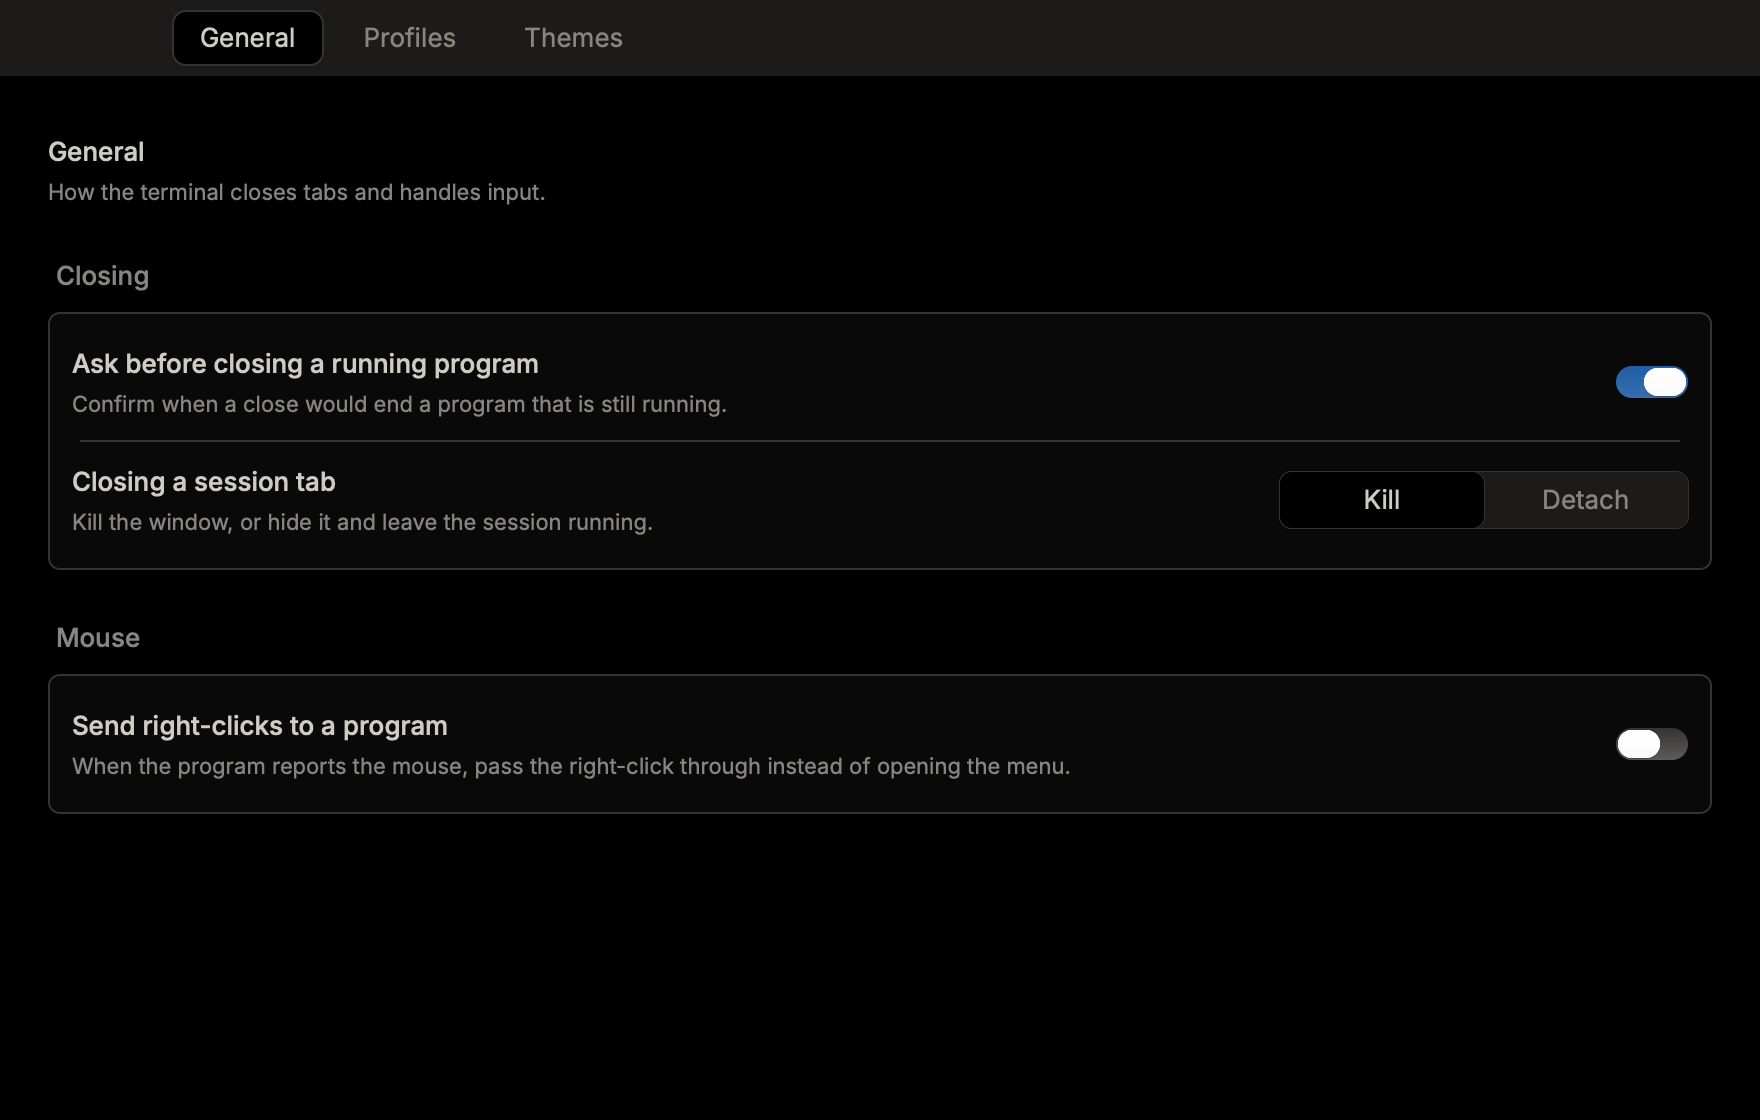
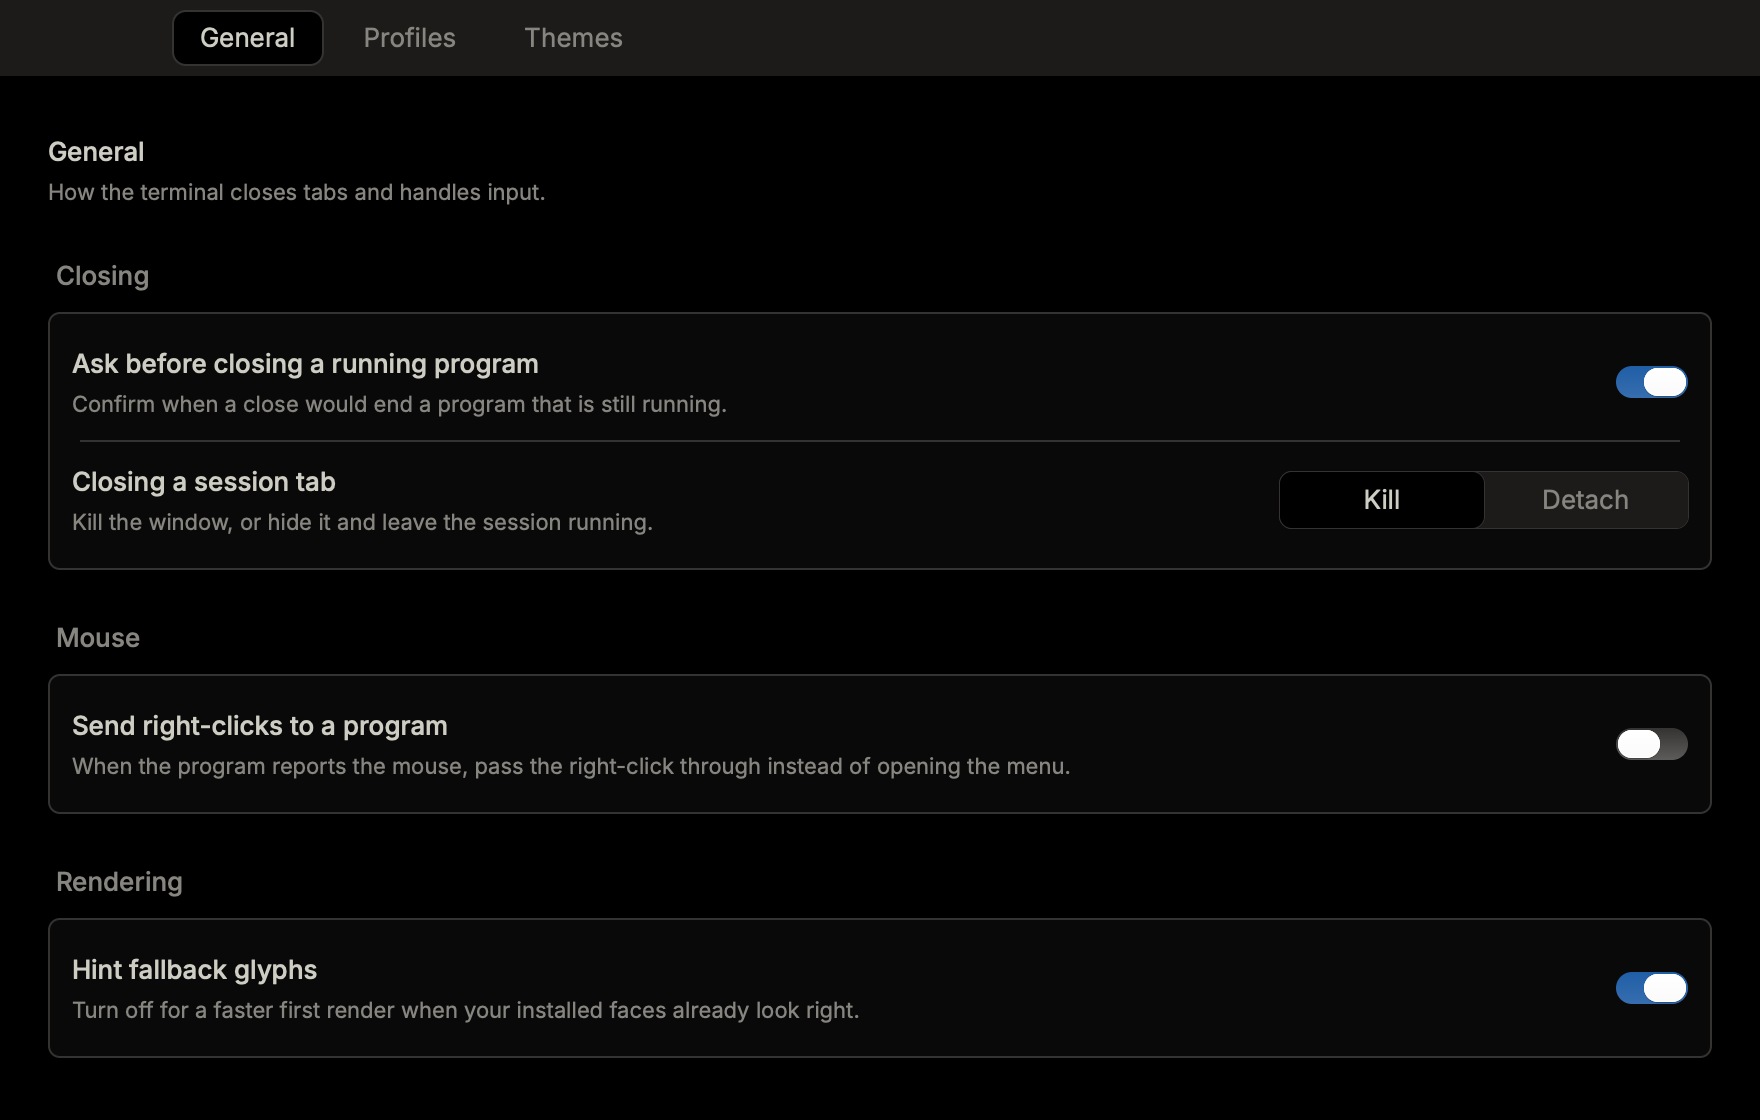
refactor(grid): skip glyph instances for control cells and spaces
Align with uterm's approach: rio-vt stores tab stops as literal '\t' cells,
so dropping glyph emission for control chars and spaces keeps them invisible
regardless of the font. Underlines still draw. General captures regenerate
for the new hint_fallback switch.

Assisted-by: AGENT:Hy4 flash Free

Changed region(s): [[0.0312, 0.8438, 0.4688, 0.9062], [0.9062, 0.8438, 0.9688, 0.9062], [0.0312, 0.7812, 0.125, 0.8125]]

diff --git a/term-grid/src/renderer.rs b/term-grid/src/renderer.rs
@@ -400,9 +400,14 @@ fn push_glyph(
     // A wide glyph's bitmap already fills both cells. The spacer cell has width 0.
     let cells = if sample.width >= 2 { 2 } else { 1 };
     let underline = sample.underline.then(|| atlas.underline(cells)).flatten();
-    let glyph = match &sample.cluster {
-        Some(cluster) => atlas.ensure_str(cluster, cells),
-        None => atlas.ensure(sample.ch, cells),
+    // Control cells (rio-vt stores tab stops as '\t') and spaces have no ink.
+    let glyph = if sample.ch.is_control() || sample.ch == ' ' {
+        None
+    } else {
+        match &sample.cluster {
+            Some(cluster) => atlas.ensure_str(cluster, cells),
+            None => atlas.ensure(sample.ch, cells),
+        }
     };
     for rect in [glyph, underline].into_iter().flatten() {
         text.push(CellText {
@@ -702,6 +707,30 @@ fn color_target(format: wgpu::TextureFormat) -> wgpu::ColorTargetState {
 
 #[cfg(test)]
 mod tests {
+    use super::*;
+    use crate::cell::CellSample;
+    use term_atlas::Atlas;
+
+    #[test]
+    fn control_and_space_cells_emit_no_glyph() {
+        let mut atlas = Atlas::with_cell(18, 34);
+        let mut text = Vec::new();
+        let sample = |ch, underline| CellSample {
+            ch,
+            cluster: None,
+            width: 1,
+            fg: [255, 255, 255, 255],
+            bg: [0, 0, 0, 0],
+            underline,
+        };
+        for ch in ['\t', ' ', '\x1b', '\u{85}'] {
+            push_glyph(&mut text, &mut atlas, &sample(ch, false), 0, 0);
+        }
+        assert!(text.is_empty(), "a control cell must not allocate a glyph");
+        push_glyph(&mut text, &mut atlas, &sample(' ', true), 0, 0);
+        assert_eq!(text.len(), 1, "an underlined space still draws its rule");
+    }
+
     #[test]
     fn the_grid_shader_premultiplies_from_straight_color() {
         let src = include_str!("grid.wgsl");

diff --git a/rune-term/src/grid_source.rs b/rune-term/src/grid_source.rs
@@ -132,22 +132,12 @@ fn codepoint(
             .map(String::into_boxed_str)
     };
     CellSample {
-        ch: glyph_char(sq, width),
+        ch: if width == 0 { ' ' } else { sq.c() },
         cluster,
         width,
         fg,
         bg,
         underline: style.flags.intersects(StyleFlags::ALL_UNDERLINES),
-    }
-}
-
-/// rio-vt keeps tab stops as literal `\t` cells; they are positioning, not glyphs.
-fn glyph_char(sq: Square, width: u8) -> char {
-    let c = sq.c();
-    if width == 0 || c.is_control() {
-        ' '
-    } else {
-        c
     }
 }
 

diff --git a/term-host/src/grid_source.rs b/term-host/src/grid_source.rs
@@ -122,22 +122,12 @@ fn codepoint(
             .map(String::into_boxed_str)
     };
     CellSample {
-        ch: glyph_char(sq, width),
+        ch: if width == 0 { ' ' } else { sq.c() },
         cluster,
         width,
         fg,
         bg,
         underline: style.flags.intersects(StyleFlags::ALL_UNDERLINES),
-    }
-}
-
-/// rio-vt keeps tab stops as literal `\t` cells; they are positioning, not glyphs.
-fn glyph_char(sq: Square, width: u8) -> char {
-    let c = sq.c();
-    if width == 0 || c.is_control() {
-        ' '
-    } else {
-        c
     }
 }
 
